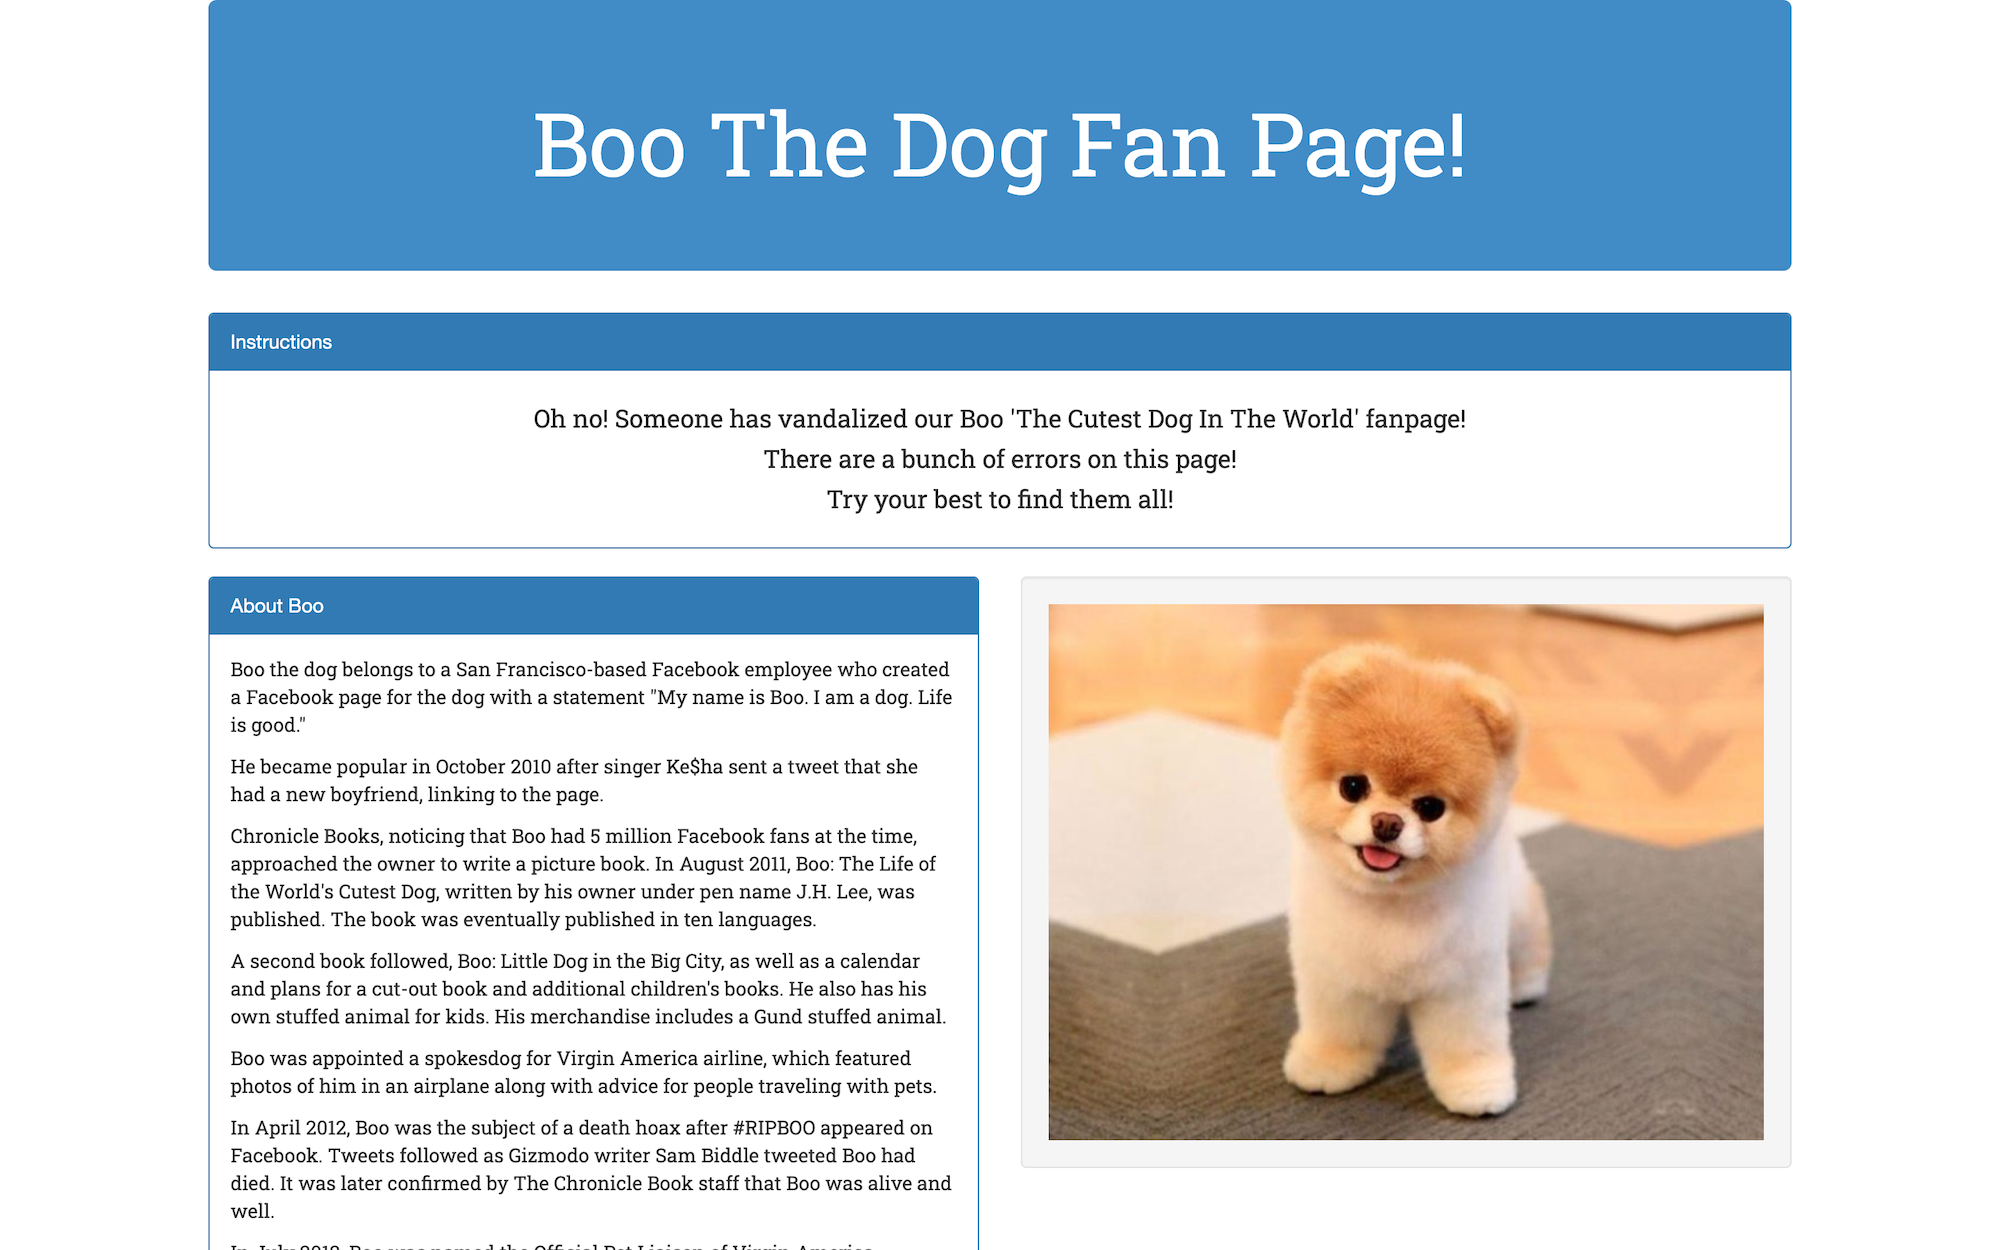
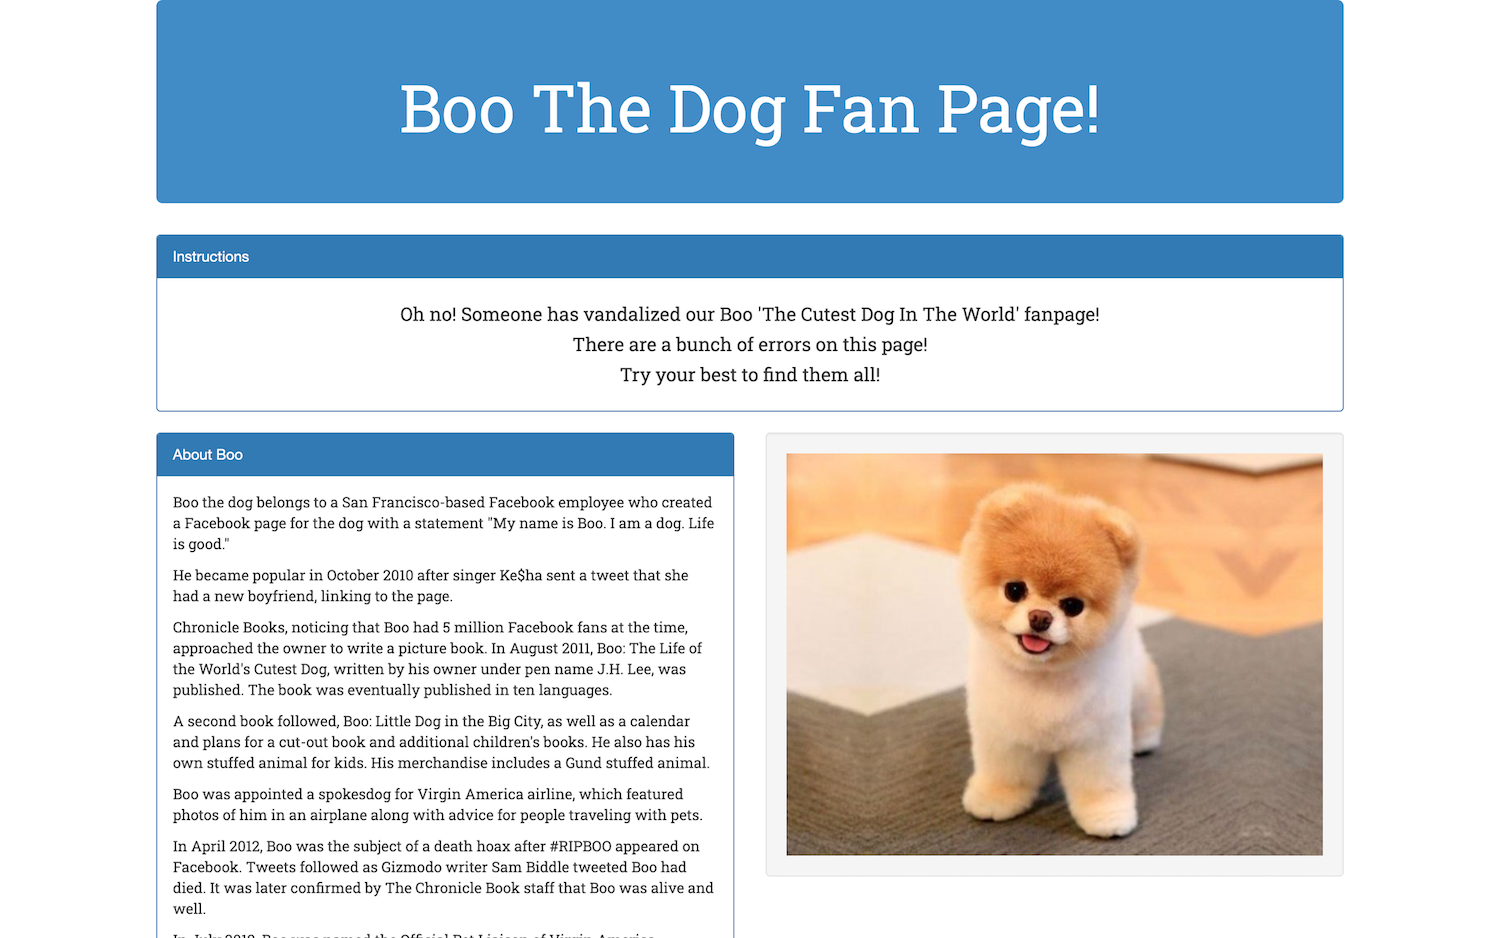
Fourth Draft. Edited the photo size even smaller.

diff --git a/README.md b/README.md
@@ -5,13 +5,19 @@ The website I created was a portfolio with a Home/About page, a portfolio page, 
 Using the Bootstrap nav bar at the top, I created functional links to toggle between the three pages.
 This website is also responsive so it can be viewed on any device without the user's experience suffering. As the screen gets smaller, the navbar will collapse into a hamburger menu and the images and text will begin to stack.
 This is done through the use of the Bootsrap grid. My columns are designed for the smallest screen possible so that my webpage can work on any device.
-
-
+Finally, this webpage is optimized for searching engines and other programmers. The html is semantically layed out with descriptive headers and 
+alt attributes on photos.
 
 ## Usage
 ![image](assets/Images/homePage.png)
 ![image](assets/Images/portfolioPage.png)
 ![image](assets/Images/contactPage.png)
+
+## Built With
+Bootstrap  
+HTML  
+CSS  
+JavaScript
 
 ## Installation
 To utilize Bootstrap components you must insert the following css into the head of your html: 
@@ -34,7 +40,8 @@ Finally, to utilize the Bootstrap grid in your webpage you must use the followin
     </div>
 </div> 
   ```
-
+ ## Author
+ Eric LaFontsee
 
   ## License
   MIT
